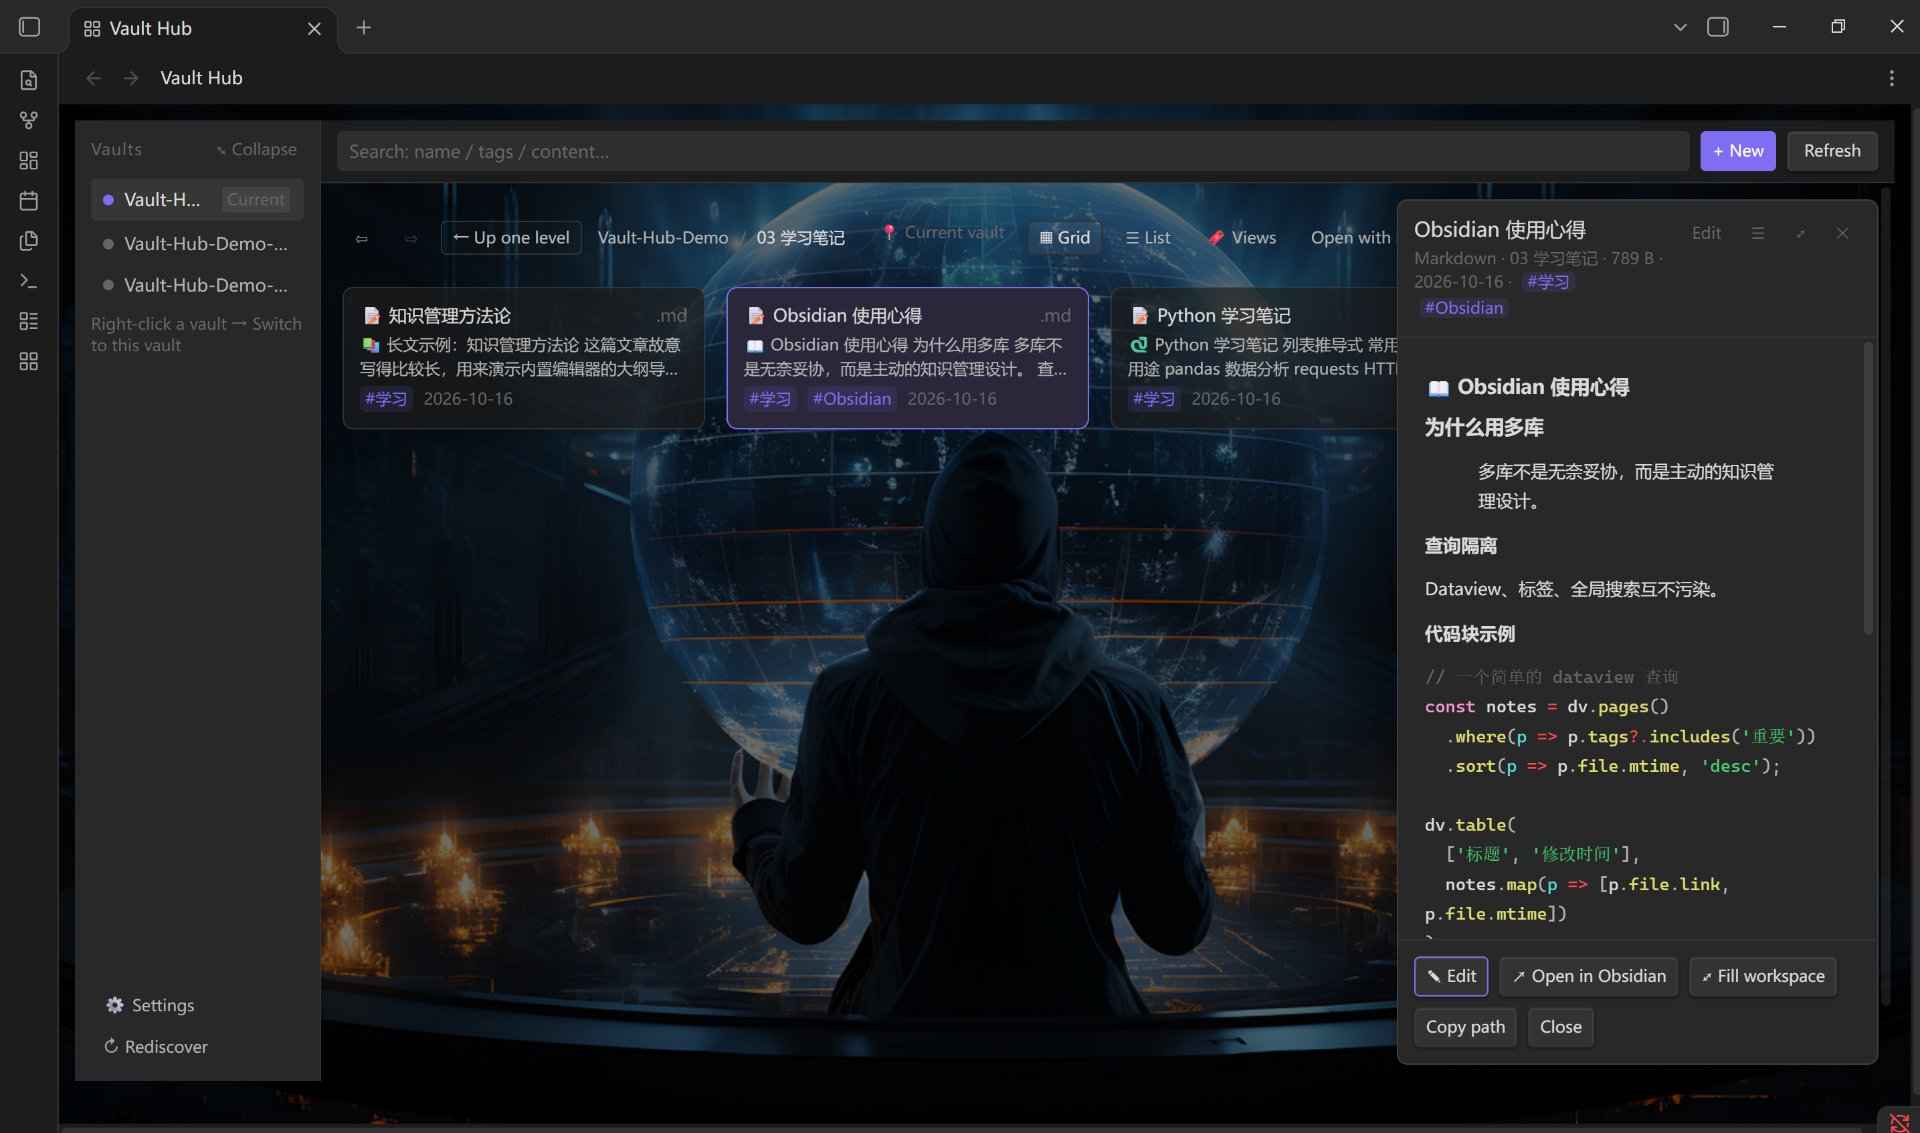
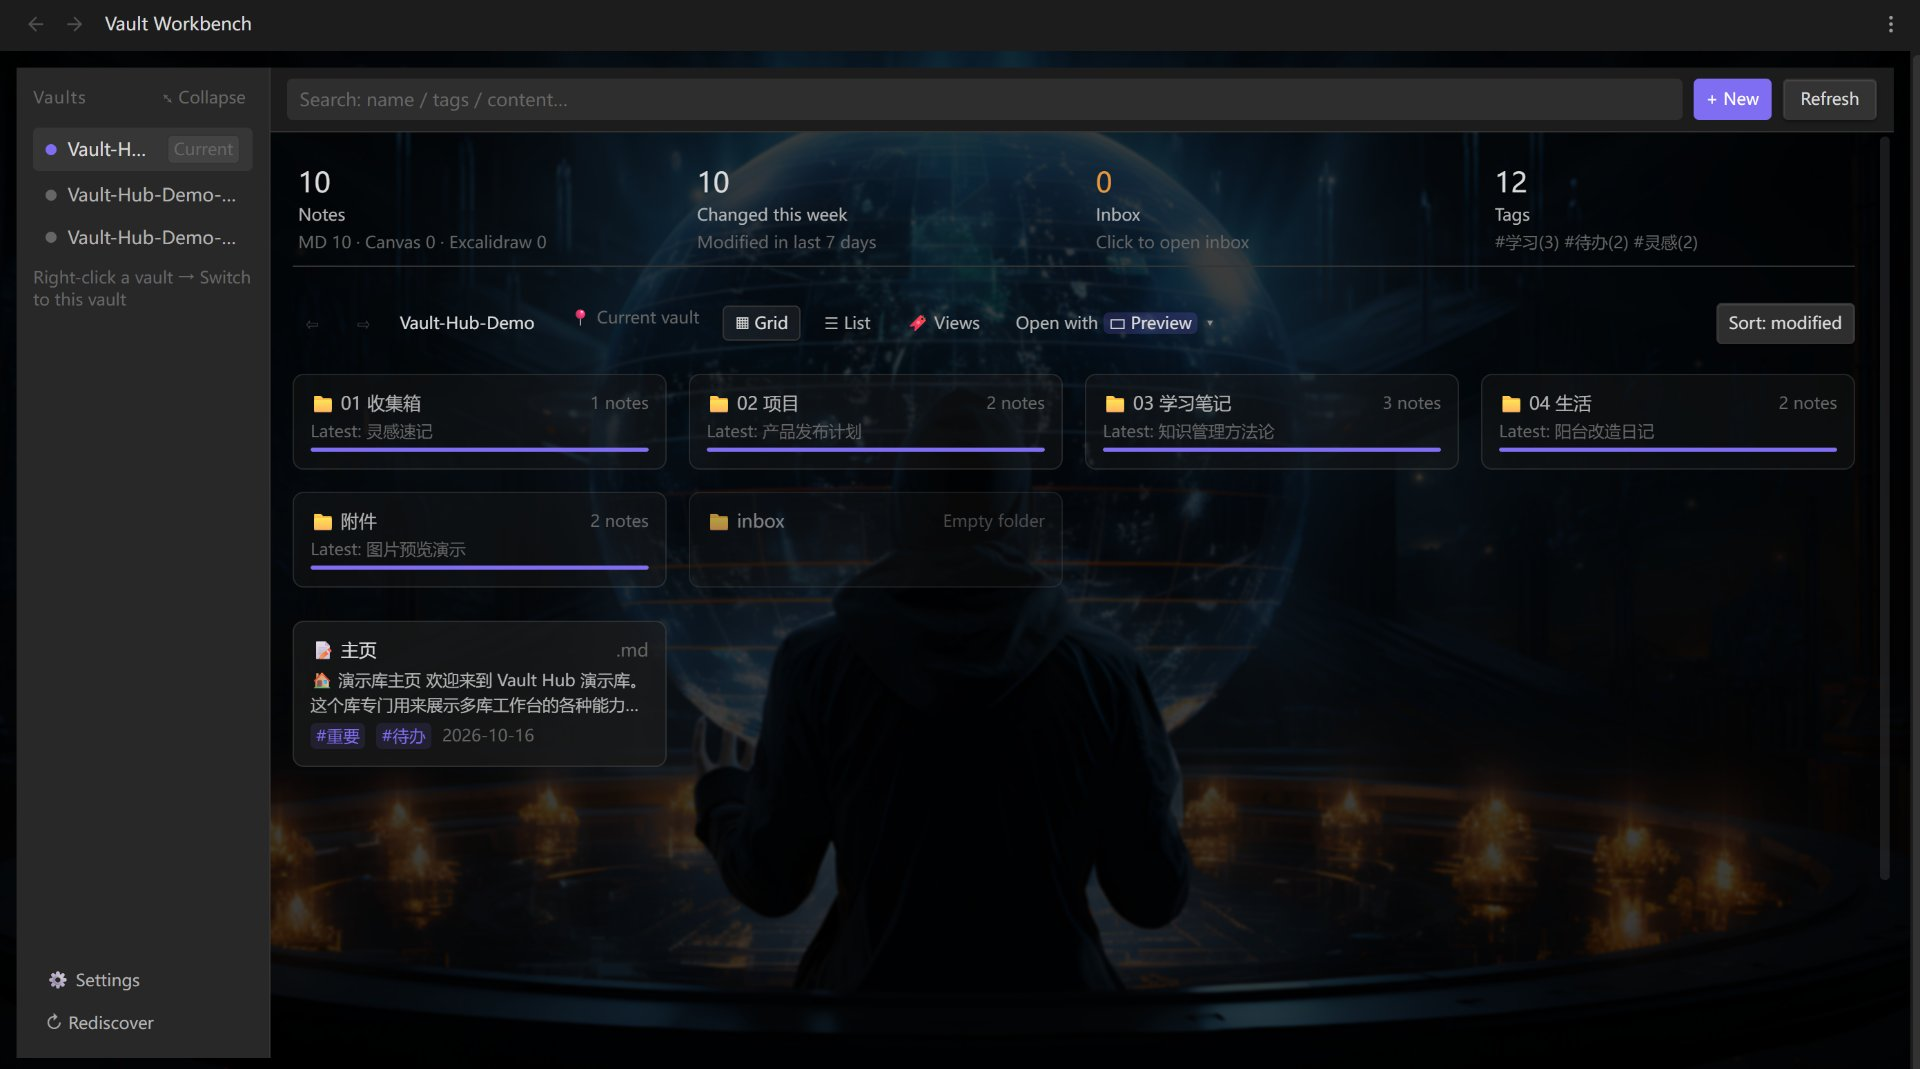
docs: fix EN dashboard card names, refresh hero screenshots with dashboard cards

diff --git a/README.md b/README.md
@@ -26,7 +26,7 @@
 | **Middle · Files** | Folder drill-down + breadcrumbs, grid / list views, search & sort, **multi-select batch actions** |
 | **Right · Preview** | Read, edit, outline. Images / PDF / audio / video / text all handled |
 
-- **Four dashboard cards** — a permanent overview strip at the top of the file area, counting the **current vault only**: **total notes** (`MD n · Canvas n · Excalidraw n`), **modified this week**, **inbox**, and **tags**. **Click a card to filter** — click 本周修改 to see the last 7 days, click 标签库 for a tag panel with multi-select intersection. Search term, folder, tag and time window all **stack with AND**; the inbox folder name is configurable and gets created for you on first click
+- **Four dashboard cards** — a permanent overview strip at the top of the file area, counting the **current vault only**: **Notes** (`MD n · Canvas n · Excalidraw n`), **Changed this week**, **Inbox**, and **Tags**. **Click a card to filter** — click *Changed this week* to see notes modified in the last 7 days, click *Tags* for a tag panel with multi-select intersection. Search term, folder, tag and time window all **stack with AND**; the inbox folder name is configurable and gets created for you on first click
 
 - **One place for all vaults** — no window switching, no reloading. Browsing another vault feels like browsing another folder. Empty folders show up too (the folder list comes from the vault's real directory tree, not guessed from notes)
 

diff --git a/README_EN.md b/README_EN.md
@@ -26,7 +26,7 @@
 | **Middle · Files** | Folder drill-down + breadcrumbs, grid / list views, search & sort, **multi-select batch actions** |
 | **Right · Preview** | Read, edit, outline. Images / PDF / audio / video / text all handled |
 
-- **Four dashboard cards** — a permanent overview strip at the top of the file area, counting the **current vault only**: **total notes** (`MD n · Canvas n · Excalidraw n`), **modified this week**, **inbox**, and **tags**. **Click a card to filter** — click 本周修改 to see the last 7 days, click 标签库 for a tag panel with multi-select intersection. Search term, folder, tag and time window all **stack with AND**; the inbox folder name is configurable and gets created for you on first click
+- **Four dashboard cards** — a permanent overview strip at the top of the file area, counting the **current vault only**: **Notes** (`MD n · Canvas n · Excalidraw n`), **Changed this week**, **Inbox**, and **Tags**. **Click a card to filter** — click *Changed this week* to see notes modified in the last 7 days, click *Tags* for a tag panel with multi-select intersection. Search term, folder, tag and time window all **stack with AND**; the inbox folder name is configurable and gets created for you on first click
 
 - **One place for all vaults** — no window switching, no reloading. Browsing another vault feels like browsing another folder. Empty folders show up too (the folder list comes from the vault's real directory tree, not guessed from notes)
 
